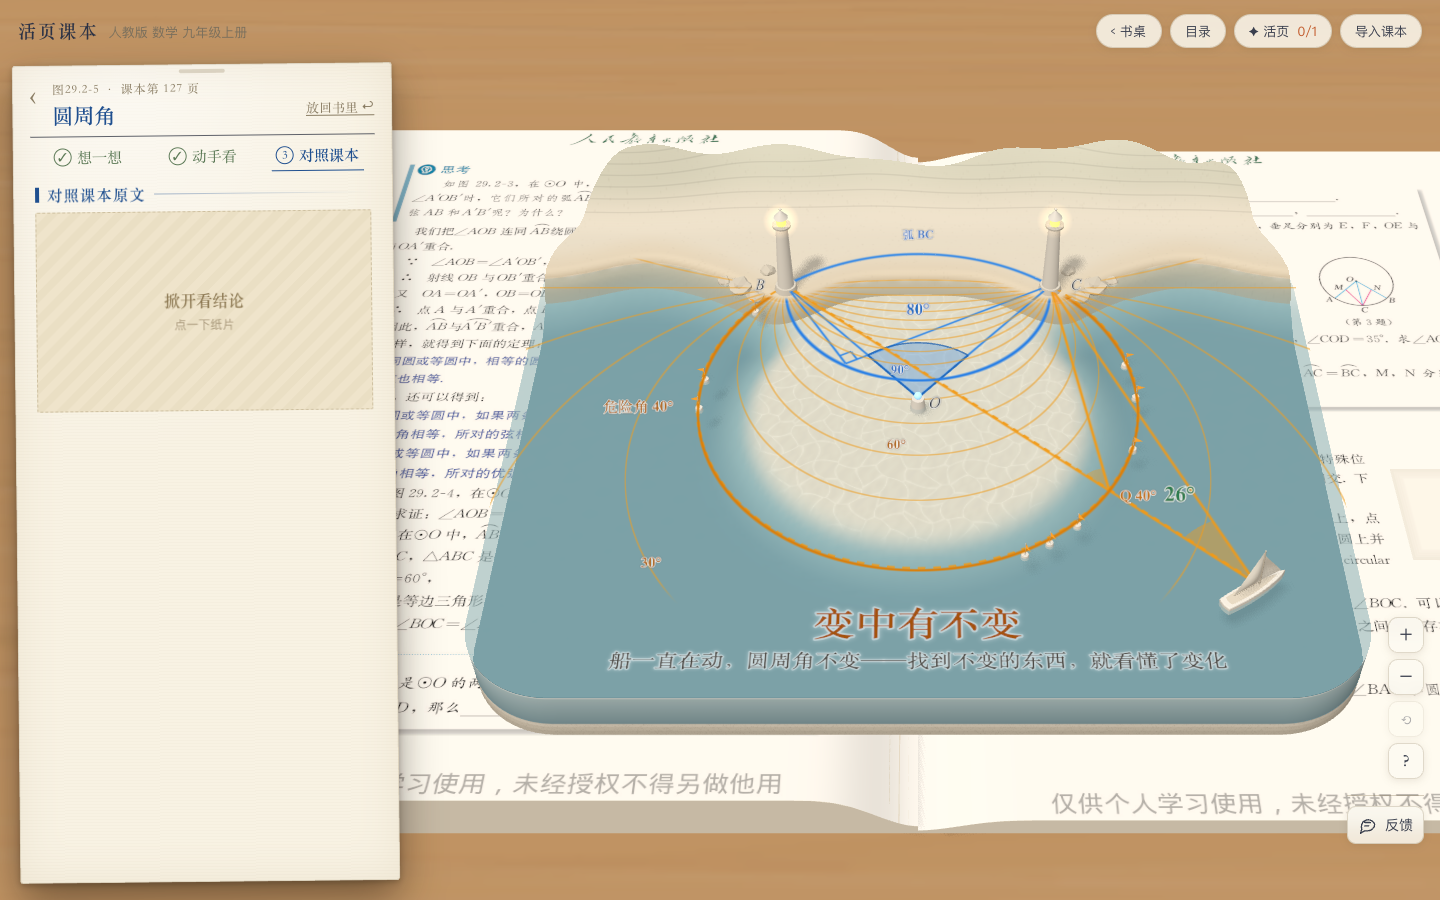
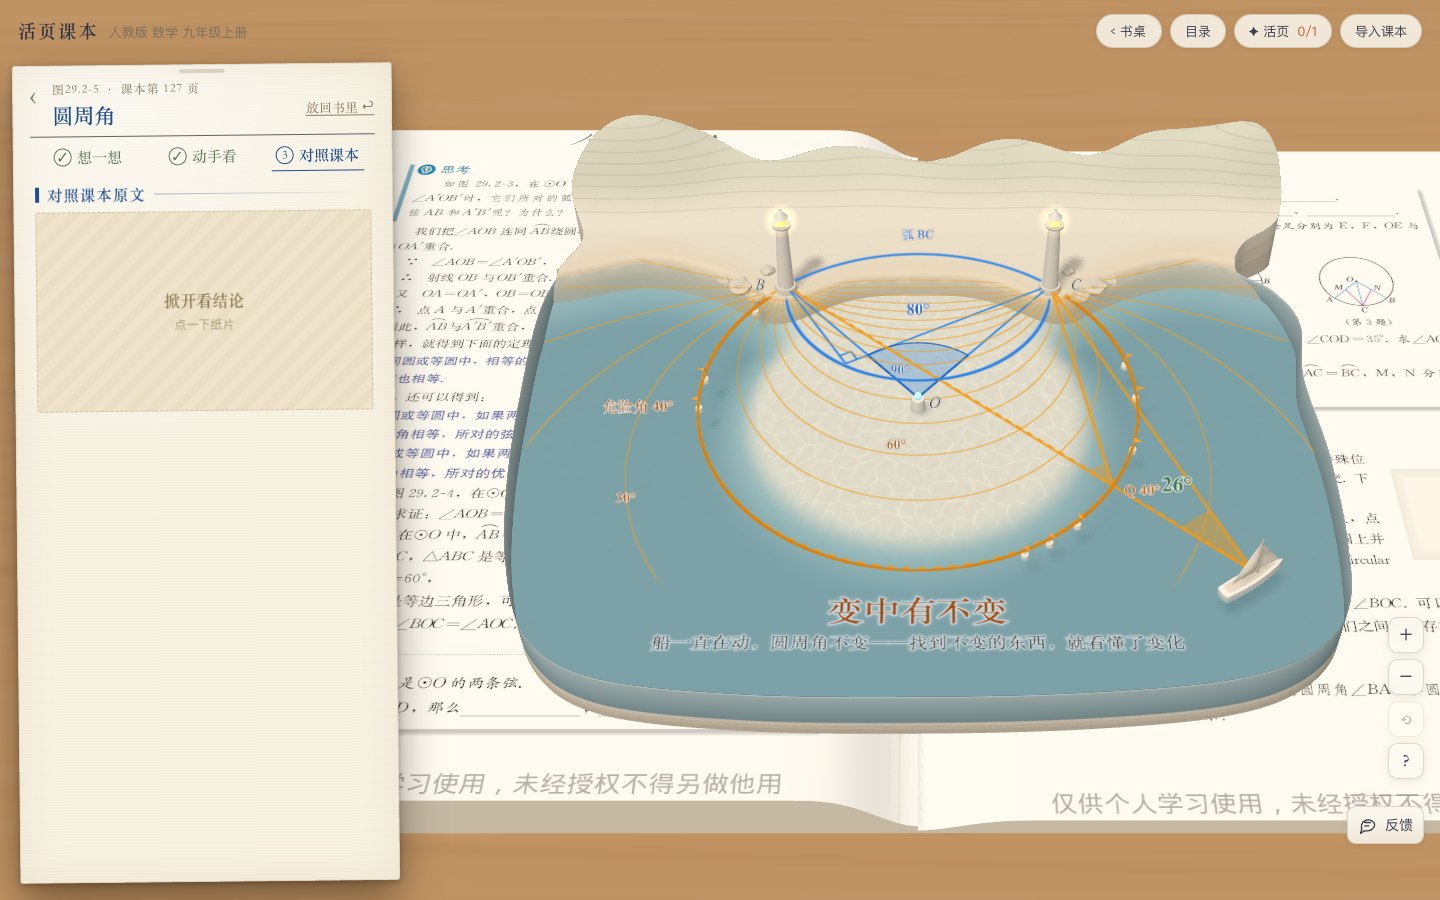
数学圆周角大建模：外轮廓真正不规则——前沿外凸、两个前角一大一小、右边岸上切进去一口再鼓出一条舌头、左边岸上往里收、后面沿山脊起伏；剪裁改用一张遮罩贴图；切面两面都画（斜着看时水面和海底的边对不齐，不再透出书页）；等角线往里收一圈；图下的字往上挪一点、窄一点

diff --git a/src/lessons/inscribed.js b/src/lessons/inscribed.js
@@ -22,7 +22,7 @@ const O = [0, 0.05 - 0.06 / Math.tan(DANGER)], R = 0.06 / Math.sin(DANGER);   //
 const SEA = { u0: -0.172, u1: 0.172, v0: -0.172, v1: 0.05 };  // 海（岸在 v = 0.05）；圆下面留一条水写字
 const H = 0.024, LAND_V = 0.046, LAND_H = 0.003, BACK_V = 0.135;          // 海面离书页多高；岸线；岸比海面高多少；模型最里边
 const INK_Y = LAND_H + 0.0003;          // 数学那一层比水面高这么多
-const CAP_TOP = SEA.v0 + 0.05;          // 圆下面写字那条水的上沿
+const CAP_TOP = -0.1165;          // 圆下面写字那条水的上沿（圆最低点 −0.1148 的船还开得到）
 const TAU = Math.PI * 2, DEG = 180 / Math.PI;
 const P3 = (p, y = 0) => new THREE.Vector3(p[0], y, -p[1]);
 const angAt = (V, P, Q) => Math.abs(wrap(ang(sub(Q, V)) - ang(sub(P, V))));
@@ -33,11 +33,10 @@ const dirO = (p) => Math.atan2(p[1] - O[1], p[0] - O[0]);
 const AB = dirO(B0), AC = dirO(C0) + TAU;                     // 圆在海里的那段弧：从 B 逆时针经过最下面到 C
 const shore = (u) => { const a = Math.abs(u); return 0.06 - 0.016 * Math.exp(-(((a - 0.06) / 0.022) ** 2)) + 0.012 * Math.exp(-(((a - 0.125) / 0.03) ** 2)); };          // 海岸线：两座灯塔站在伸进海里的岬角上，岬角外侧各有一个小湾
 const VMAX = 0.076;          // 水面、海底一直铺到这里（被岸盖住的那部分看不见）
-const OUT_BX = 0.172, OUT_CY = (-0.172 + 0.135) / 2, OUT_BY = (0.135 + 0.172) / 2, OUT_R = 0.036;
-const sm = (a, b, x) => { const t = Math.min(1, Math.max(0, (x - a) / (b - a))); return t * t * (3 - 2 * t); };
-const outD = (u, v) => { const qx = Math.abs(u) - OUT_BX + OUT_R, qy = Math.abs(v - OUT_CY) - OUT_BY + OUT_R; const base = Math.hypot(Math.max(qx, 0), Math.max(qy, 0)) + Math.min(Math.max(qx, qy), 0) - OUT_R; return base + sm(0.05, 0.1, v) * (0.0098 + 0.0045 * Math.sin(u * 47 + 1.3) + 0.0015 * Math.sin(u * 113) + 0.0035 * Math.sin(v * 71) * sm(0.1, 0.16, Math.abs(u))); };          // 模型外轮廓：小于 0 在里面
-const f5 = (x) => x.toFixed(5);
-const OUT_FN = `float outD(vec2 p){ vec2 q = vec2(abs(p.x) - ${f5(OUT_BX - OUT_R)}, abs(p.y - (${f5(OUT_CY)})) - ${f5(OUT_BY - OUT_R)}); float base = length(max(q, 0.0)) + min(max(q.x, q.y), 0.0) - ${f5(OUT_R)}; return base + smoothstep(0.05, 0.1, p.y) * (0.0098 + 0.0045 * sin(p.x * 47.0 + 1.3) + 0.0015 * sin(p.x * 113.0) + 0.0035 * sin(p.y * 71.0) * smoothstep(0.1, 0.16, abs(p.x))); }`;
+const OUT_KEY = [[0, -0.1715], [0.065, -0.1695], [0.118, -0.1635], [0.148, -0.1515], [0.165, -0.131], [0.1705, -0.098], [0.1712, -0.05], [0.1675, -0.005], [0.1712, 0.03], [0.162, 0.052], [0.147, 0.066], [0.153, 0.083], [0.1705, 0.098], [0.1685, 0.119], [0.151, 0.1325], [0.118, 0.1342], [0.083, 0.1235], [0.047, 0.1335], [0.008, 0.1215], [-0.032, 0.1318], [-0.071, 0.1225], [-0.106, 0.1335], [-0.142, 0.1295], [-0.1635, 0.111], [-0.1575, 0.086], [-0.1665, 0.061], [-0.1712, 0.034], [-0.1712, -0.012], [-0.1688, -0.062], [-0.162, -0.108], [-0.149, -0.143], [-0.122, -0.1625], [-0.068, -0.1702]];          // 模型外轮廓的点（从前沿正中往右、逆时针一圈）
+const OUT_PTS = (() => { const K = OUT_KEY, n = K.length, out = []; for (let i = 0; i < n; i++) { const p0 = K[(i - 1 + n) % n], p1 = K[i], p2 = K[(i + 1) % n], p3 = K[(i + 2) % n]; for (let j = 0; j < 16; j++) { const t = j / 16, t2 = t * t, t3 = t2 * t; const f = (a, b, c, d) => 0.5 * (2 * b + (-a + c) * t + (2 * a - 5 * b + 4 * c - d) * t2 + (-a + 3 * b - 3 * c + d) * t3); out.push([Math.min(0.1718, Math.max(-0.1718, f(p0[0], p1[0], p2[0], p3[0]))), Math.min(0.1348, Math.max(-0.1718, f(p0[1], p1[1], p2[1], p3[1])))]); } } return out; })();
+const inOutline = (u, v) => { let c = false; for (let i = 0, j = OUT_PTS.length - 1; i < OUT_PTS.length; j = i++) { const a = OUT_PTS[i], b = OUT_PTS[j]; if ((a[1] > v) !== (b[1] > v) && u < ((b[0] - a[0]) * (v - a[1])) / (b[1] - a[1]) + a[0]) c = !c; } return c; };
+const OUT_RECT = [-0.172, -0.172, 0.344, 0.307];          // 遮罩贴图覆盖的长方形（u0, v0, 宽, 深）
 const inSea = (p) => p[0] > SEA.u0 + 0.008 && p[0] < SEA.u1 - 0.008 && p[1] > SEA.v0 + 0.008 && p[1] < shore(p[0]) - 0.012;
 const central = () => angAt(O, B0, C0);
 
@@ -67,7 +66,10 @@ export default {
     const root = new THREE.Group(); root.add(group); group.position.y = H;
     const tex = (w, h, draw) => { const c = document.createElement('canvas'); c.width = w; c.height = h; draw(c.getContext('2d'), w, h); const t = new THREE.CanvasTexture(c); t.colorSpace = THREE.SRGBColorSpace; t.anisotropy = 8; return t; };
     const basic = (o) => new THREE.MeshBasicMaterial(o);
-    const clip = (mat, ox, oz, name) => { const prev = mat.onBeforeCompile; mat.onBeforeCompile = (sh, r) => { if (prev) prev.call(mat, sh, r); sh.uniforms.uOff = { value: new THREE.Vector2(ox, oz) }; sh.vertexShader = sh.vertexShader.replace('#include <common>', '#include <common>\nuniform vec2 uOff; varying vec2 vPaper;').replace('#include <begin_vertex>', '#include <begin_vertex>\nvPaper = vec2(position.x + uOff.x, -(position.z + uOff.y));'); sh.fragmentShader = sh.fragmentShader.replace('#include <common>', '#include <common>\nvarying vec2 vPaper;\n' + OUT_FN).replace('#include <clipping_planes_fragment>', '#include <clipping_planes_fragment>\nif (outD(vPaper) > 0.0) discard;'); }; mat.customProgramCacheKey = () => 'clip-' + name; return mat; };          // 模型外轮廓外面的那部分不画
+    const outMask = tex(1024, Math.round((1024 * OUT_RECT[3]) / OUT_RECT[2]), (g, w, h) => { g.fillStyle = '#000'; g.fillRect(0, 0, w, h); g.fillStyle = '#fff'; g.beginPath(); OUT_PTS.forEach(([u, v], i) => { const x = ((u - OUT_RECT[0]) / OUT_RECT[2]) * w, y = (1 - (v - OUT_RECT[1]) / OUT_RECT[3]) * h; if (i) g.lineTo(x, y); else g.moveTo(x, y); }); g.closePath(); g.fill(); });
+    outMask.colorSpace = THREE.NoColorSpace;          // 模型外轮廓：白的地方是模型
+    const OUT_GLSL = 'uniform sampler2D uMask; uniform vec4 uRect;\nbool outsideModel(vec2 p) { return texture2D(uMask, (p - uRect.xy) / uRect.zw).r < 0.5; }';
+    const clip = (mat, ox, oz, name) => { const prev = mat.onBeforeCompile; mat.onBeforeCompile = (sh, r) => { if (prev) prev.call(mat, sh, r); sh.uniforms.uOff = { value: new THREE.Vector2(ox, oz) }; sh.uniforms.uMask = { value: outMask }; sh.uniforms.uRect = { value: new THREE.Vector4(...OUT_RECT) }; sh.vertexShader = sh.vertexShader.replace('#include <common>', '#include <common>\nuniform vec2 uOff; varying vec2 vPaper;').replace('#include <begin_vertex>', '#include <begin_vertex>\nvPaper = vec2(position.x + uOff.x, -(position.z + uOff.y));'); sh.fragmentShader = sh.fragmentShader.replace('#include <common>', '#include <common>\nvarying vec2 vPaper;\n' + OUT_GLSL).replace('#include <clipping_planes_fragment>', '#include <clipping_planes_fragment>\nif (outsideModel(vPaper)) discard;'); }; mat.customProgramCacheKey = () => 'clip-' + name; return mat; };          // 模型外轮廓外面的那部分不画
     const quiet = (m) => { m.raycast = () => {}; m.userData.noFrame = true; return m; };
     const lit = (o) => new THREE.MeshStandardMaterial({ roughness: 0.8, metalness: 0, ...o });
     const solid = (m) => { m.castShadow = true; m.receiveShadow = true; m.raycast = () => {}; m.userData.noFrame = true; return m; };
@@ -112,16 +114,15 @@ export default {
     const sideAt = (u, front) => (t) => { const v = front ? SEA.v0 + t * (BACK_V - SEA.v0) : BACK_V - t * (BACK_V - SEA.v0); return v >= shore(u) ? { land: true, top: YM + Math.max(0, hill(u, v)) } : { bed: H - depth(u, v) }; };
     void face; void sideAt;
     { // 四周的切面：沿着外轮廓走一圈（海那边是水和沙层，岸上那边跟着地形起伏）
-      const N = 440, pts = [];
-      for (let i = 0; i < N; i++) { const a = (i / N) * TAU, d = [Math.cos(a), Math.sin(a)]; let lo = 0, hi = 0.34; for (let k = 0; k < 40; k++) { const m2 = (lo + hi) / 2; if (outD(d[0] * m2, OUT_CY + d[1] * m2) > 0) hi = m2; else lo = m2; } pts.push([d[0] * lo, OUT_CY + d[1] * lo]); }
+      const pts = OUT_PTS, N = pts.length;
       const Ls = [0]; for (let i = 1; i <= N; i++) Ls.push(Ls[i - 1] + dist(pts[i - 1], pts[i % N])); const per = Ls[N];
       const surf = (u, v) => (v < shore(u) ? { bed: H - depth(u, v) } : { land: true, top: YM + Math.max(0, landH(u, v)) });
       const wt = faceTex((t) => { const x = t * per; let i = 0; while (i < N - 1 && Ls[i + 1] < x) i++; const f = (x - Ls[i]) / (Ls[i + 1] - Ls[i] || 1), a = pts[i], b = pts[(i + 1) % N]; return surf(a[0] + (b[0] - a[0]) * f, a[1] + (b[1] - a[1]) * f); }, 4096);
       const pos = [], uvs = [], idx = [];
       for (let i = 0; i <= N; i++) { const q = pts[i % N]; pos.push(q[0], 0, -q[1], q[0], TOP, -q[1]); uvs.push(Ls[i] / per, 0, Ls[i] / per, 1); if (i < N) idx.push(2 * i, 2 * i + 2, 2 * i + 1, 2 * i + 1, 2 * i + 2, 2 * i + 3); }
       const wg2 = new THREE.BufferGeometry(); wg2.setAttribute('position', new THREE.Float32BufferAttribute(pos, 3)); wg2.setAttribute('uv', new THREE.Float32BufferAttribute(uvs, 2)); wg2.setIndex(idx); wg2.computeVertexNormals();
-      const n0 = new THREE.Vector3().fromBufferAttribute(wg2.attributes.normal, 0); if (n0.x * pts[0][0] - n0.z * (pts[0][1] - OUT_CY) < 0) { const ix = wg2.index.array; for (let i = 0; i < ix.length; i += 3) { const tmp = ix[i + 1]; ix[i + 1] = ix[i + 2]; ix[i + 2] = tmp; } wg2.index.needsUpdate = true; wg2.computeVertexNormals(); }          // 法线朝外
-      const wall = quiet(new THREE.Mesh(wg2, lit({ map: wt, transparent: true, alphaTest: 0.5, roughness: 0.9 }))); wall.receiveShadow = true; wall.userData.qaSupport = true; root.add(wall);
+      const n0 = new THREE.Vector3().fromBufferAttribute(wg2.attributes.normal, 0); if (n0.x * pts[0][0] - n0.z * (pts[0][1] + 0.0185) < 0) { const ix = wg2.index.array; for (let i = 0; i < ix.length; i += 3) { const tmp = ix[i + 1]; ix[i + 1] = ix[i + 2]; ix[i + 2] = tmp; } wg2.index.needsUpdate = true; wg2.computeVertexNormals(); }          // 法线朝外
+      const wall = quiet(new THREE.Mesh(wg2, lit({ map: wt, transparent: true, alphaTest: 0.5, roughness: 0.9, side: THREE.DoubleSide }))); wall.receiveShadow = true; wall.userData.qaSupport = true; root.add(wall);          // 两面都画：斜着看时，水面和海底的边对不齐，中间靠切面里侧补上
     }
     { // 岸：一条矮矮的沙滩、后面是草地；岸线那一面是沙和石头
       const top = tex(1024, 256, (g, w, h) => {
@@ -353,12 +354,12 @@ export default {
     // 整片海的等角线（点海面才出来）：着色器算每一点“看两座灯塔是多少度”，每 10° 一条
     const contour = quiet(new THREE.Mesh(new THREE.PlaneGeometry(seaW, seaD).rotateX(-Math.PI / 2), new THREE.ShaderMaterial({
       transparent: true, depthWrite: false,
-      uniforms: { B: { value: new THREE.Vector2(B0[0], -B0[1]) }, C: { value: new THREE.Vector2(C0[0], -C0[1]) }, th0: { value: DANGER * DEG }, k: { value: 0 }, capTop: { value: CAP_TOP }, inv: { value: new THREE.Matrix4() } },
+      uniforms: { uMask: { value: outMask }, uRect: { value: new THREE.Vector4(...OUT_RECT) }, B: { value: new THREE.Vector2(B0[0], -B0[1]) }, C: { value: new THREE.Vector2(C0[0], -C0[1]) }, th0: { value: DANGER * DEG }, k: { value: 0 }, capTop: { value: CAP_TOP }, inv: { value: new THREE.Matrix4() } },
       vertexShader: 'uniform mat4 inv; varying vec2 w; void main(){ vec4 p = modelMatrix * vec4(position, 1.); w = (inv * p).xz; gl_Position = projectionMatrix * viewMatrix * p; }',
       fragmentShader: `uniform vec2 B; uniform vec2 C; uniform float th0; uniform float k; uniform float capTop; varying vec2 w;
-        ${OUT_FN}
+        ${OUT_GLSL}
         void main(){
-          if (outD(vec2(w.x, -w.y)) > 0.0) discard;
+          if (outsideModel(vec2(0., -0.02) + (vec2(w.x, -w.y) - vec2(0., -0.02)) * 1.045)) discard;          // 等角线画在水面上方一点：往里收一圈，斜着看也不越出模型的边
           vec2 a = normalize(B - w), b = normalize(C - w);
           float d = degrees(acos(clamp(dot(a, b), -1., 1.)));
           float fw = fwidth(d) + 1e-4;
@@ -387,7 +388,7 @@ export default {
     const arcSpread = () => { const ts = lanterns.map((l) => dirO(l.p)).sort((a, b) => a - b); let gap = 0; for (let i = 0; i < ts.length; i++) gap = Math.max(gap, (ts[(i + 1) % ts.length] - ts[i] + TAU) % TAU); return ts.length < 2 ? 0 : TAU - gap; };
 
     // ================= 光写的字：写在图形下面那一条水上，像投影打在模型上 =================
-    const CAP_V = SEA.v0 + 0.0255, CAP_W = 0.31;          // CAP_TOP 在文件开头
+    const CAP_V = -0.1398, CAP_W = 0.27;          // CAP_TOP 在文件开头；前沿是外凸的弧，字往上挪一点、窄一点
     // 字是印在模型上的墨色（不是发光的）：白模上亮字一叠加就发白刺眼；墨色字底下垫一圈很淡的亮边，压在波纹上也清楚
     const capMesh = quiet(new THREE.Mesh(new THREE.PlaneGeometry(1, 1).rotateX(-Math.PI / 2), basic({ transparent: true, depthWrite: false, opacity: 0 })));
     capMesh.position.set(0, 0.0009, -CAP_V); capMesh.renderOrder = 6; capMesh.visible = false; ink.add(capMesh);
@@ -539,6 +540,8 @@ export default {
     function moveShip(q) {
       if (!inSea(q)) { const u2 = clamp(q[0], SEA.u0 + 0.009, SEA.u1 - 0.009); q = [u2, clamp(q[1], SEA.v0 + 0.009, shore(u2) - 0.013)]; }
       q = [q[0], Math.max(q[1], CAP_TOP)];          // 字写在圆下面那条水上，船不开进去
+      const okIn = (p2) => inOutline(p2[0] - 0.013, p2[1]) && inOutline(p2[0] + 0.013, p2[1]) && inOutline(p2[0], p2[1] - 0.013) && inOutline(p2[0], p2[1] + 0.013);
+      for (let k = 0; k < 30 && !okIn(q); k++) q = [q[0] + (O[0] - q[0]) * 0.06, q[1] + (O[1] - q[1]) * 0.06];          // 不规则的外轮廓：船离边留一点
       if (S.beat === 'vary' && theta(q) > Math.PI / 2 - 0.004) q = add([0, 0.05], mul(unit(sub(q, [0, 0.05])), 0.0601));          // 改变弧 BC：最多开到两座灯塔正好是直径的那一圈（90°）
       if (S.beat === 'classify') {          // 沿弧开：船贴着这一圈走；视线快穿过浮标时吸过去
         q = onCirc(clamp(tOn(q), T_LO, T_HI));
@@ -691,7 +694,7 @@ export default {
     });
     function pose(k) {
       if (!S.done || !k) return;
-      clearCase(); tweens.length = 0; clearGhosts(); foldG.visible = false;          // 先清场：拼的、拆的、绳子都收起来
+      growGen++; clearCase(); tweens.length = 0; clearGhosts(); foldG.visible = false;          // 先清场：拼的、拆的、绳子都收起来
       Object.assign(S, { proof: 0, proofDone: false, probe: null, vary: null, cut: [], rope: 0, fold: 0, cnum: true, beat: 'review', buoy: ['arc', 'def'].includes(k) ? 0 : 1, family: k === 'right' ? 1 : 0 });
       chips.forEach((c) => { c.visible = false; c.rotation.y = 0; });
       aim?.(['c1', 'c2', 'c3'].includes(k) ? [0, 1, 0.36] : [0, Math.sin(0.82), Math.cos(0.82)]);
@@ -708,7 +711,8 @@ export default {
       layout(); const c = REVIEW_CAP()[k]; if (c) lightText(c[0], c[1], c[2]);
     }
     // 点：海面（小旗连成什么）、浮标（不动的那一点）
-    const grow = (key, dur, done) => { const t0 = now(); const tick = () => { if (dead) return; S[key] = Math.min(1, (now() - t0) / dur); layout(); if (S[key] < 1) requestAnimationFrame(tick); else done?.(); }; tick(); };
+    let growGen = 0;
+    const grow = (key, dur, done) => { const t0 = now(), gen = growGen; const tick = () => { if (dead || gen !== growGen) return; S[key] = Math.min(1, (now() - t0) / dur); layout(); if (S[key] < 1) requestAnimationFrame(tick); else done?.(); }; tick(); };
     function tapSea() { if (S.call !== 'sea' || S.circle) return; S.call = ''; sfx.whoosh({ dur: 0.6, freq: 900, gain: 0.04 }); grow('circle', 1.6); }
     function tapBuoy() { if (S.call !== 'buoy' || S.buoy) return; S.call = ''; S.buoy = 1; sfx.clink({ freq: 1300, gain: 0.05 }); board.h('概念'); board('<span class="n">3</span><b>圆心角</b>：顶点在圆心的角 <i>∠BOC</i>，和圆周角 <i>∠BAC</i> 对着同一条弧 <i>BC</i>'); punch(O, '', null); layout(); }
     const openPanel = () => { ui?.go?.(2); ui?.fold?.(false); };
@@ -990,7 +994,7 @@ export default {
       debug: {
         get S() { return S; },
         lanterns, notes, board: boardRows, H, punch, labels: () => [...Object.values(LB), ...conLabs, conDanger], cap: () => capNow, theta, central, moveShip, tapSea, tapBuoy, cutDown, chipDown, chipMove, chipUp, probeDown, probeMove, probeUp, pairTap, takeDown, takeMove, takeUp, pose, toDeck, toChart, reset, onCirc, O, B0, C0, T_LO, T_HI,
-        fast: (k) => { speed = k; }, wg: group, SK, bis, chips,
+        fast: (k) => { speed = k; }, wg: group, SK, bis, chips, aim: (d) => aim?.(d),
         qa: [
           { name: '快放：开场演示', run: () => { speed = 30; }, wait: 1 },
           { name: '在海上来回开，放小旗', run: () => { for (let k = 0; k <= 320; k++) { const t = (k / 320) * TAU * 2; moveShip([0.12 * Math.cos(t * 1.3), -0.04 + 0.08 * Math.sin(t)]); } }, wait: 1 },
